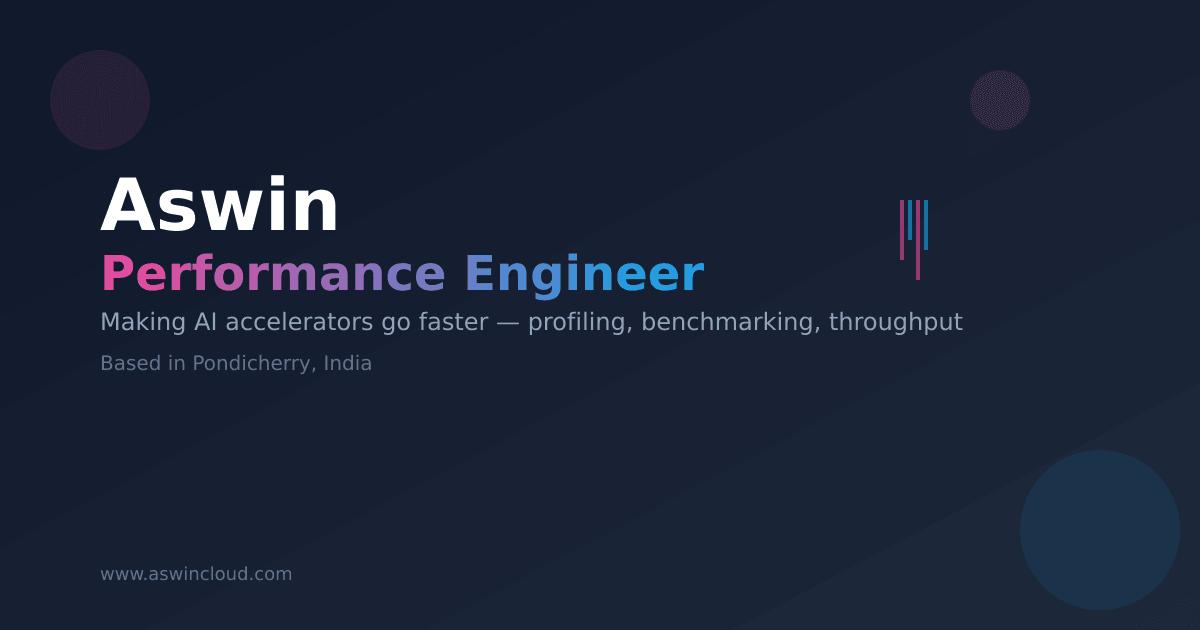
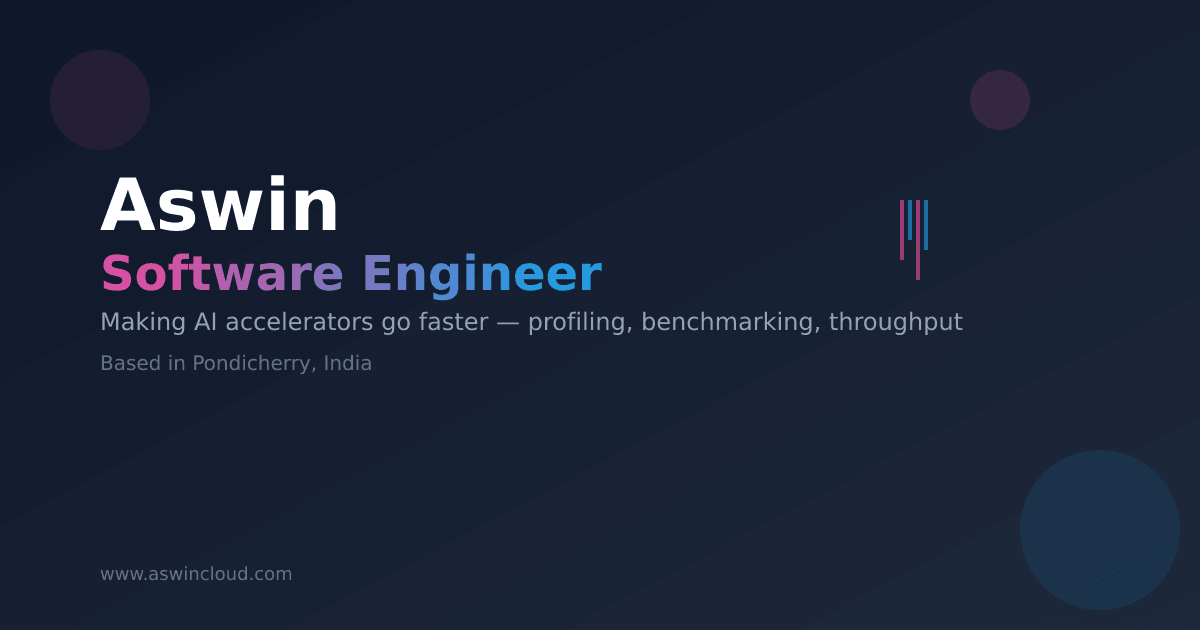
content: revert job title to "Software Engineer", keep performance framing
Title surfaces go back to "Software Engineer" per preference — hero
subtitle, browser tab title, OG/Twitter titles + image alts, JSON-LD
jobTitle, and the OG image artwork.

The work descriptions stay performance-focused: the hero paragraph, About
prose, meta description, keywords, JSON-LD knowsAbout, and the OG image
subtitle still describe the AI-accelerator / profiling / throughput work.
So the title reads "Software Engineer" while the copy says what that
actually involves.

Changed region(s): [[0.0617, 0.3921, 0.5858, 0.4825]]

diff --git a/index.html b/index.html
@@ -4,7 +4,7 @@
     <meta charset="UTF-8" />
     <meta name="viewport" content="width=device-width, initial-scale=1.0" />
 
-    <title>Aswin — Performance Engineer</title>
+    <title>Aswin — Software Engineer</title>
     <meta
       name="description"
       content="Aswin is a performance engineer in Pondicherry, India, optimizing the software that runs on AI accelerator hardware — profiling, benchmarking, and squeezing throughput out of specialized silicon."
@@ -22,7 +22,7 @@
         "@context": "https://schema.org",
         "@type": "Person",
         "name": "Aswin",
-        "jobTitle": "Performance Engineer",
+        "jobTitle": "Software Engineer",
         "description": "Performance engineer optimizing the software that runs on AI accelerator hardware — profiling, benchmarking, and throughput optimization. Based in Pondicherry, India.",
         "url": "https://www.aswincloud.com",
         "sameAs": ["https://github.com/Aswin-coder", "https://www.linkedin.com/in/aswin4122001/"],
@@ -51,7 +51,7 @@
     <!-- Open Graph / Facebook -->
     <meta property="og:type" content="website" />
     <meta property="og:url" content="https://www.aswincloud.com/" />
-    <meta property="og:title" content="Aswin — Performance Engineer" />
+    <meta property="og:title" content="Aswin — Software Engineer" />
     <meta
       property="og:description"
       content="Optimizing the software that runs on AI accelerator hardware — profiling, benchmarking, and throughput. Based in Pondicherry, India."
@@ -60,18 +60,18 @@
     <meta property="og:image:type" content="image/png" />
     <meta property="og:image:width" content="1200" />
     <meta property="og:image:height" content="630" />
-    <meta property="og:image:alt" content="Aswin — Performance Engineer" />
+    <meta property="og:image:alt" content="Aswin — Software Engineer" />
 
     <!-- Twitter -->
     <meta property="twitter:card" content="summary_large_image" />
     <meta property="twitter:url" content="https://www.aswincloud.com/" />
-    <meta property="twitter:title" content="Aswin — Performance Engineer" />
+    <meta property="twitter:title" content="Aswin — Software Engineer" />
     <meta
       property="twitter:description"
       content="Optimizing the software that runs on AI accelerator hardware — profiling, benchmarking, and throughput. Based in Pondicherry, India."
     />
     <meta property="twitter:image" content="https://www.aswincloud.com/og-image.png" />
-    <meta property="twitter:image:alt" content="Aswin — Performance Engineer" />
+    <meta property="twitter:image:alt" content="Aswin — Software Engineer" />
 
     <link rel="preconnect" href="https://fonts.googleapis.com" />
     <link rel="preconnect" href="https://fonts.gstatic.com" crossorigin />

diff --git a/src/components/sections/HeroSection.jsx b/src/components/sections/HeroSection.jsx
@@ -78,7 +78,7 @@ const HeroSection = React.memo(function HeroSection() {
               animate={{ opacity: 1, y: 0 }}
               transition={{ delay: 0.3 }}
             >
-              Performance Engineer
+              Software Engineer
             </motion.p>
 
             <motion.p
